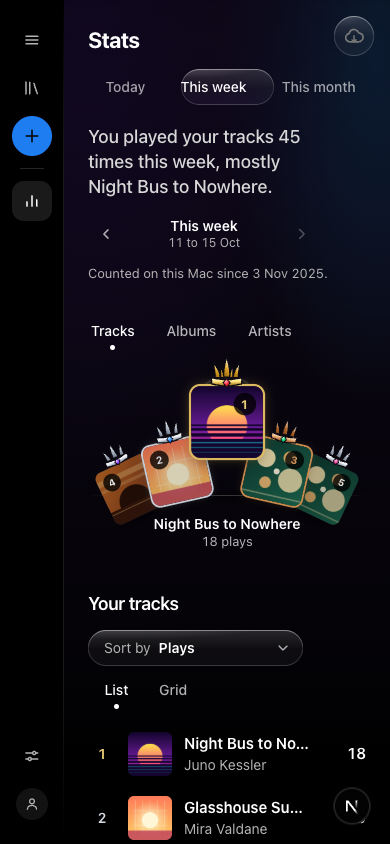
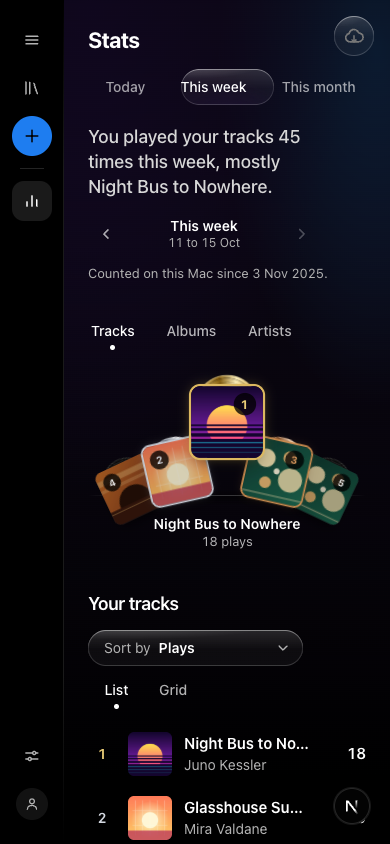
Stats page: records show the rank, gold, silver, bronze and black; no crowns (#145)
The owner's call: the records reflect status instead of the rank crowns.
Every record peeks a little at rest so the status reads at a glance.

Claude-Session: https://claude.ai/code/session_016wtvpvRFjMyGctvKw2v9pz

diff --git a/apps/web/src/app/globals.css b/apps/web/src/app/globals.css
@@ -2236,8 +2236,10 @@ body {
     0 0 calc(var(--w) * 0.16) calc(var(--w) * -0.035) rgb(201 138 78 / 0.4),
     0 calc(var(--w) * 0.12) calc(var(--w) * 0.22) calc(var(--w) * -0.1) rgb(0 0 0 / 0.8);
 }
-/* The record behind the sleeve; on the active one a crescent of its rim peeks over the top (the
-   label stays hidden). */
+/* The record behind the sleeve, by rank: gold, silver and bronze are metallic vinyl (two light sweeps
+   across a conic sheen, under fine grooves), ranks four and five black. Every record peeks a little
+   over the sleeve's top at rest and the active one more, so the status reads at a glance; the label
+   stays hidden. */
 .fan-record {
   position: absolute;
   left: 6%;
@@ -2252,7 +2254,35 @@ body {
   box-shadow:
     inset 0 0 0 1px rgb(255 255 255 / 0.1),
     0 calc(var(--w) * 0.075) calc(var(--w) * 0.14) calc(var(--w) * -0.07) rgb(0 0 0 / 0.8);
+  transform: translate3d(0, -9%, 0);
   transition: transform 340ms cubic-bezier(0.16, 1, 0.3, 1);
+}
+.fan-record[data-medal="gold"] {
+  background:
+    radial-gradient(circle, transparent 0 63%, rgb(0 0 0 / 0.28) 63.5% 64.5%, transparent 65%),
+    repeating-radial-gradient(circle, rgb(0 0 0 / 0.1) 0 1px, transparent 1px 3px),
+    conic-gradient(from 20deg, #fff2bf, #c8921e 12%, #ffe089 25%, #7d5609 40%, #fff2bf 50%, #c8921e 62%, #ffe089 75%, #7d5609 90%, #fff2bf);
+  box-shadow:
+    inset 0 0 0 1px rgb(255 240 190 / 0.5),
+    0 calc(var(--w) * 0.075) calc(var(--w) * 0.14) calc(var(--w) * -0.07) rgb(0 0 0 / 0.8);
+}
+.fan-record[data-medal="silver"] {
+  background:
+    radial-gradient(circle, transparent 0 63%, rgb(0 0 0 / 0.28) 63.5% 64.5%, transparent 65%),
+    repeating-radial-gradient(circle, rgb(0 0 0 / 0.1) 0 1px, transparent 1px 3px),
+    conic-gradient(from 20deg, #ffffff, #aeb6c2 12%, #eef2f7 25%, #5d6674 40%, #ffffff 50%, #aeb6c2 62%, #eef2f7 75%, #5d6674 90%, #ffffff);
+  box-shadow:
+    inset 0 0 0 1px rgb(255 255 255 / 0.5),
+    0 calc(var(--w) * 0.075) calc(var(--w) * 0.14) calc(var(--w) * -0.07) rgb(0 0 0 / 0.8);
+}
+.fan-record[data-medal="bronze"] {
+  background:
+    radial-gradient(circle, transparent 0 63%, rgb(0 0 0 / 0.28) 63.5% 64.5%, transparent 65%),
+    repeating-radial-gradient(circle, rgb(0 0 0 / 0.1) 0 1px, transparent 1px 3px),
+    conic-gradient(from 20deg, #ffe3c8, #b56a2c 12%, #f2b67e 25%, #6a3412 40%, #ffe3c8 50%, #b56a2c 62%, #f2b67e 75%, #6a3412 90%, #ffe3c8);
+  box-shadow:
+    inset 0 0 0 1px rgb(255 227 200 / 0.45),
+    0 calc(var(--w) * 0.075) calc(var(--w) * 0.14) calc(var(--w) * -0.07) rgb(0 0 0 / 0.8);
 }
 .fan-sleeve[data-active="true"] .fan-record {
   transform: translate3d(0, -18%, 0);
@@ -2301,30 +2331,6 @@ body {
 .fan-rank[data-medal="gold"] { color: #ecce78; }
 .fan-rank[data-medal="silver"] { color: #d3d8e0; }
 .fan-rank[data-medal="bronze"] { color: #dc9a5e; }
-/* The rank crown (top five, tracks and albums only): centred on the sleeve's top edge, its band just
-   over the edge. It lives inside the button so it tilts and lifts with the sleeve, lets every click
-   through (the hit area is the sleeve's) and has no motion of its own. The simpler drawing shows by
-   default; the full one only where the crown is 64px wide or more (see the container query after the
-   narrow block). 0.42 of the sleeve is the crown's width, 0.354 its height. */
-.fan-crown {
-  --fan-crown-w: calc(var(--w) * 0.42);
-  position: absolute;
-  z-index: 2;
-  top: calc(var(--fan-crown-w) * -0.777);
-  left: 50%;
-  width: var(--fan-crown-w);
-  pointer-events: none;
-  transform: translateX(-50%);
-}
-.fan-crown img {
-  display: block;
-  width: 100%;
-  height: auto;
-  pointer-events: none;
-}
-.fan-crown .fan-crown-full {
-  display: none;
-}
 .fan-tag {
   position: absolute;
   left: 0;
@@ -2424,22 +2430,8 @@ body {
   .fan[data-size="page"] .fan-tag {
     display: none;
   }
-  /* The sleeves are small here, so the crown is a little larger relative to them to stay readable. */
-  .fan[data-size="page"] .fan-crown {
-    --fan-crown-w: calc(var(--w) * 0.56);
-  }
   .fan-caption {
     display: block;
-  }
-}
-/* The full drawing only where every crown is 64px wide or more: the outermost sleeves are scaled to
-   0.88 for depth, so the page sleeve (22cqw) must be 173px or more, 0.42 x 173 x 0.88 = 64. */
-@container (min-width: 788px) {
-  .fan[data-size="page"] .fan-crown .fan-crown-full {
-    display: block;
-  }
-  .fan[data-size="page"] .fan-crown .fan-crown-small {
-    display: none;
   }
 }
 

diff --git a/apps/web/src/components/stats/SleeveFan.tsx b/apps/web/src/components/stats/SleeveFan.tsx
@@ -210,7 +210,7 @@ function Sleeve({
         className="fan-hit"
       >
         {!disc && (
-          <span aria-hidden className="fan-record">
+          <span aria-hidden data-medal={medal} className="fan-record">
             <span className="fan-record-label" style={cover ? { backgroundImage: `url("${cover}")` } : undefined} />
           </span>
         )}
@@ -220,14 +220,6 @@ function Sleeve({
         ) : (
           <span data-medal={medal} className="fan-art text-text-muted">
             <MusicNoteIcon className="h-6 w-6" />
-          </span>
-        )}
-        {item.rank <= 5 && !disc && (
-          <span aria-hidden className="fan-crown">
-            {/* eslint-disable-next-line @next/next/no-img-element -- two tiny local SVGs, swapped by CSS at 64px */}
-            <img src={`/crowns/crown-${item.rank}.svg`} alt="" draggable={false} decoding="async" className="fan-crown-full" />
-            {/* eslint-disable-next-line @next/next/no-img-element -- see above */}
-            <img src={`/crowns/crown-${item.rank}-small.svg`} alt="" draggable={false} decoding="async" className="fan-crown-small" />
           </span>
         )}
         <span aria-hidden className="fan-rank" data-medal={medal}>

diff --git a/docs/design.md b/docs/design.md
@@ -343,8 +343,7 @@ eyebrows still apply to those labels.
     of each size in `.fan[data-size]`): #1 in the middle in gold, silver and bronze either side,
     #4 and #5 outside; with fewer than five the same rule runs and the set is centred, no empty
     slots, the tilt per step widening as the fan thins (`lib/fan-layout.ts`); no items means the
-    period's empty line, no fan. Hover or focus lifts a sleeve with name and plays; its record only peeks (a crescent of the rim above the sleeve, about 18%, the label stays hidden); artists are round discs. The page fan is a wheel: the sleeves tilt round one far pivot, so they sit on one shallow arc (not a half circle), and it is stacked with depth, each step out a little smaller and darker, like cards. The chosen one lifts, grows and loses its shade, and ← → wheel through them left to right; the lift stays on the keyboard-focused sleeve when the pointer leaves. The sidebar's shelf is the original tight stack of three, number one in front, with the same depth and shading. Under about 545px of room the chosen sleeve's name and plays sit in a caption under the fan instead of on the cover, and the narrow wheel lifts the chosen sleeve higher (0.6 of its width) so it clears its neighbours: at least 47px of each sleeve stays to tap in every selection state at 390px (about 41px at 360px and 36px at 320px).
-    The top five wear rank crowns (metal by medal, gems by rank: gold/ruby, silver/blue, bronze/emerald, silver/purple, silver/pink): blade crowns from `scripts/make-rank-crowns.py`: each spire a dagger (a ridge, a bright and a dark bevel, a needle tip, guard spikes), barbed tattoo-style hooks off the band ends, number one with five blades, centred on the top edge of each track or album sleeve (none on artists), the rank badge staying on the corner, a simpler drawing below 64px wide (the shelf and the narrow page). Decorative only (hidden from screen readers, clicks pass through) with no motion of their own; they move with their sleeve.
+    period's empty line, no fan. Hover or focus lifts a sleeve with name and plays; every record peeks a little at rest (about 9%) and the chosen one more (about 18%), the middle (label) always hidden, and the records go by status: #1 gold, #2 silver, #3 bronze (metallic vinyl) and the rest black vinyl; artists are round discs with no record. The page fan is a wheel: the sleeves tilt round one far pivot, so they sit on one shallow arc (not a half circle), and it is stacked with depth, each step out a little smaller and darker, like cards. The chosen one lifts, grows and loses its shade, and ← → wheel through them left to right; the lift stays on the keyboard-focused sleeve when the pointer leaves. The sidebar's shelf is the original tight stack of three, number one in front, with the same depth and shading. Under about 545px of room the chosen sleeve's name and plays sit in a caption under the fan instead of on the cover, and the narrow wheel lifts the chosen sleeve higher (0.6 of its width) so it clears its neighbours: at least 47px of each sleeve stays to tap in every selection state at 390px (about 41px at 360px and 36px at 320px).
   - **Activation**: a sleeve, list row and grid tile is a button. A sleeve first plays a short
     opening beat (360ms: the record slides further out, the sleeve lifts and grows a little; none
     under reduced motion, which opens at once), then the release opens. A track opens its release
